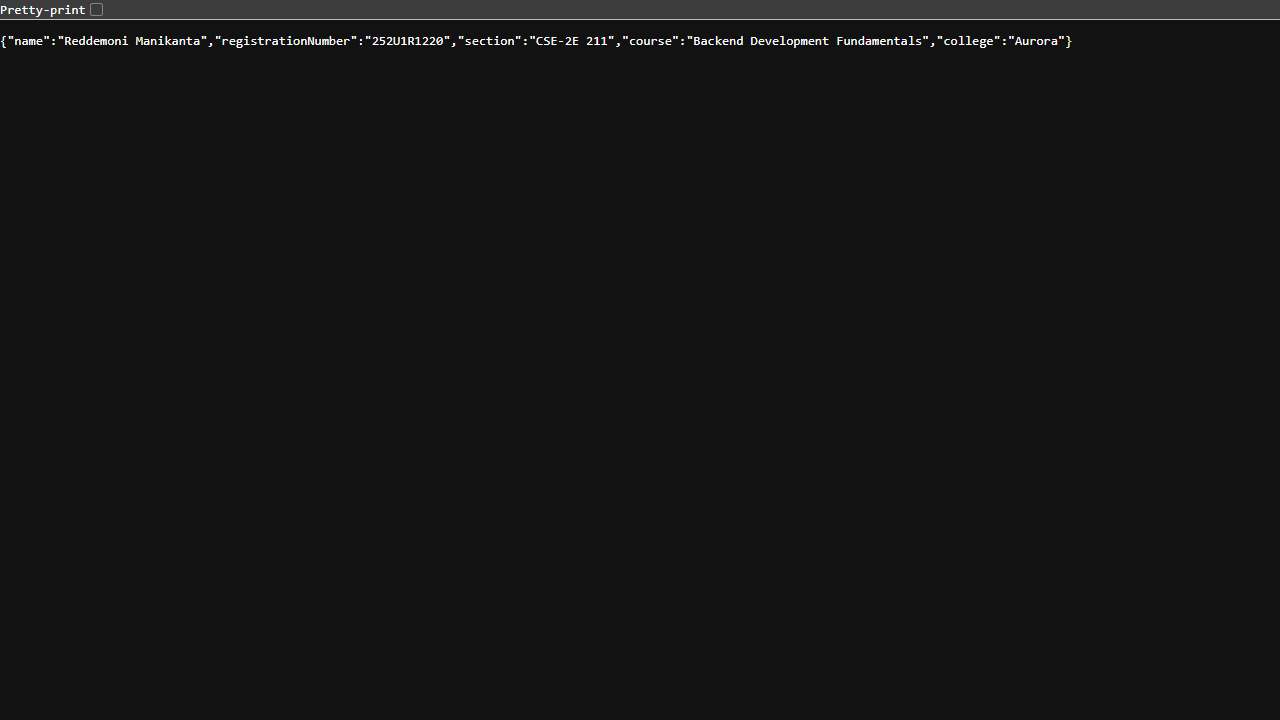
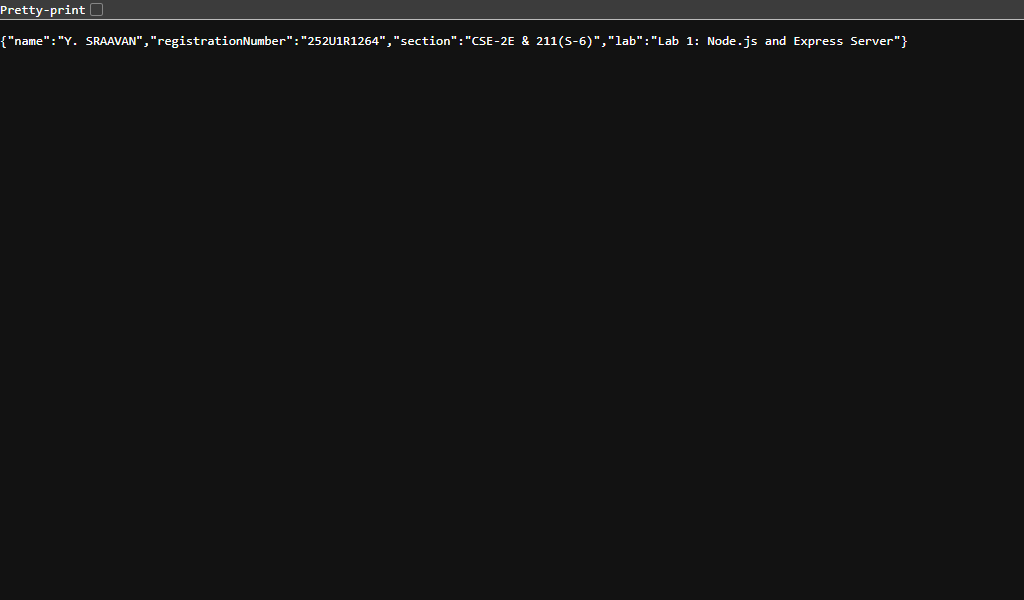
Customize project details for Yarraballi Sraavan (252U1R1264)

Changed region(s): [[0.0, 0.0, 1.0, 0.09]]

diff --git a/lab-01/server.js b/lab-01/server.js
@@ -7,15 +7,15 @@ const PORT = process.env.PORT || 3000;
 app.get("/", (req, res) => {
   res.status(200).json({
     message: "Welcome to the Backend Development Fundamentals Lab 1!",
-    student: "Reddemoni Manikanta",
+    student: "Yarraballi Sraavan",
     lab: "Lab 1 - Node.js and Express Server",
   });
 });
 
 app.get("/about", (req, res) => {
   res.status(200).json({
-    name: "Reddemoni Manikanta",
-    registrationNumber: "252U1R1220",
+    name: "Yarraballi Sraavan",
+    registrationNumber: "252U1R1264",
     section: "CSE-2E 211",
     course: "Backend Development Fundamentals",
     college: "Aurora Deemed-to-be-University",

diff --git a/lab-03/server.js b/lab-03/server.js
@@ -84,8 +84,8 @@ initializeDBAndServer();
 app.get("/", (req, res) => {
   res.status(200).json({
     message: "Welcome to Backend Development Fundamentals - Lab 3 (REST API, Query Parameters, Validation & Debugging)",
-    student: "Reddemoni Manikanta",
-    registrationNumber: "252U1R1220",
+    student: "Yarraballi Sraavan",
+    registrationNumber: "252U1R1264",
     section: "CSE-2E 211",
     college: "Aurora Deemed-to-be-University",
     faculty: "Mr Yugandhar Gurjalwar",

diff --git a/lab-02/server.js b/lab-02/server.js
@@ -61,8 +61,8 @@ initializeDBAndServer();
 app.get("/", (req, res) => {
   res.status(200).json({
     message: "Welcome to Backend Development Fundamentals - Lab 2 (SQLite Database and CRUD Routes)",
-    student: "Reddemoni Manikanta",
-    registrationNumber: "252U1R1220",
+    student: "Yarraballi Sraavan",
+    registrationNumber: "252U1R1264",
     section: "CSE-2E 211",
     college: "Aurora Deemed-to-be-University",
     endpoints: {

diff --git a/lab-03/debug-exercise/DEBUGGING.md b/lab-03/debug-exercise/DEBUGGING.md
@@ -1,7 +1,7 @@
 # Lab 3: Debugging Exercise & Troubleshooting Guide
 
-**Student Name:** Reddemoni Manikanta  
-**Registration Number:** 252U1R1220  
+**Student Name:** Yarraballi Sraavan  
+**Registration Number:** 252U1R1264  
 **Section:** CSE-2E 211  
 **Subject:** Backend Development Fundamentals  
 **College:** Aurora Deemed-to-be University  
@@ -26,9 +26,9 @@ Error: listen EADDRINUSE: address already in use :::3000
     at Server.setupListenHandle [as _listen2] (node:net:1940:16)
     at listenInCluster (node:net:1997:12)
     at Server.listen (node:net:2102:7)
-    at Function.listen (C:\Users\shekar\OneDrive\Desktop\R.Manikanta\lab-03\node_modules\express\lib\application.js:605:24)
+    at Function.listen (C:\Users\sraav\OneDrive\Desktop\LABS TERM 2 BACK END\lab-03\node_modules\express\lib\application.js:605:24)
     at Server.<anonymous> ([eval]:1:104)
-    at Server.f (C:\Users\shekar\OneDrive\Desktop\R.Manikanta\lab-03\node_modules\once\once.js:25:25)
+    at Server.f (C:\Users\sraav\OneDrive\Desktop\LABS TERM 2 BACK END\lab-03\node_modules\once\once.js:25:25)
     at Object.onceWrapper (node:events:633:28)
     at Server.emit (node:events:531:35)
     at emitListeningNT (node:net:1983:10)
@@ -92,7 +92,7 @@ node:internal/modules/cjs/loader:1386
 
 Error: Cannot find module './wrong-sqlite-path'
 Require stack:
-- C:\Users\shekar\OneDrive\Desktop\R.Manikanta\lab-03\[eval]
+- C:\Users\sraav\OneDrive\Desktop\LABS TERM 2 BACK END\lab-03\[eval]
     at Function._resolveFilename (node:internal/modules/cjs/loader:1383:15)
     at defaultResolveImpl (node:internal/modules/cjs/loader:1025:19)
     at resolveForCJSWithHooks (node:internal/modules/cjs/loader:1030:22)
@@ -105,7 +105,7 @@ Require stack:
     at runScriptInThisContext (node:internal/vm:209:10) {
   code: 'MODULE_NOT_FOUND',
   requireStack: [
-    'C:\\Users\\shekar\\OneDrive\\Desktop\\R.Manikanta\\lab-03\\[eval]'
+    'C:\\Users\\sraav\\OneDrive\\Desktop\\LABS TERM 2 BACK END\\lab-03\\[eval]'
   ]
 }
 ```
@@ -136,7 +136,7 @@ Node.js resolves module specifiers by looking into `node_modules` for bare packa
 ```text
 SQLITE ERROR CAUGHT: SQLITE_ERROR: no such table: books
 Error: SQLITE_ERROR: no such table: books
-    at Statement.all (C:\Users\shekar\OneDrive\Desktop\R.Manikanta\lab-03\node_modules\sqlite3\lib\sqlite3.js:15:21)
+    at Statement.all (C:\Users\sraav\OneDrive\Desktop\LABS TERM 2 BACK END\lab-03\node_modules\sqlite3\lib\sqlite3.js:15:21)
     ...
 ```
 

diff --git a/lab-01/README.md b/lab-01/README.md
@@ -8,8 +8,8 @@
 
 | Field | Details |
 |-------|---------|
-| **Name** | Reddemoni Manikanta |
-| **Registration Number** | 252U1R1220 |
+| **Name** | Yarraballi Sraavan |
+| **Registration Number** | 252U1R1264 |
 | **Section** | CSE-2E 211 |
 | **Course** | Backend Development Fundamentals |
 | **Faculty** | Mr Yugandhar Gurjalwar |
@@ -66,8 +66,8 @@ The `package.json` file is the heart of any Node.js project. Here is an explanat
 
 1. **Clone the repository:**
    ```bash
-   git clone https://github.com/manikantareddemoni-glitch/R.Manikanta.git
-   cd R.Manikanta/lab-01
+   git clone https://github.com/sraavan09-cmd/Y.Sraavan.git
+   cd lab-01
    ```
 
 2. **Install dependencies:**
@@ -139,7 +139,7 @@ npm start
 ```json
 {
   "message": "Welcome to the Backend Development Fundamentals Lab 1!",
-  "student": "Reddemoni Manikanta",
+  "student": "Yarraballi Sraavan",
   "lab": "Lab 1 - Node.js and Express Server"
 }
 ```
@@ -147,8 +147,8 @@ npm start
 **GET /about**
 ```json
 {
-  "name": "Reddemoni Manikanta",
-  "registrationNumber": "252U1R1220",
+  "name": "Yarraballi Sraavan",
+  "registrationNumber": "252U1R1264",
   "section": "CSE-2E 211",
   "course": "Backend Development Fundamentals",
   "college": "Aurora Deemed-to-be-University"
@@ -201,12 +201,12 @@ npm start
 
 2. **Create a New Web Service:**
    - Click **"New +"** → **"Web Service"**
-   - Connect your GitHub repository: `R.Manikanta`
+   - Connect your GitHub repository: `Y.Sraavan`
 
 3. **Configure the Service:**
    | Setting | Value |
    |---------|-------|
-   | **Name** | `manikanta-lab01` |
+   | **Name** | `sraavan-lab01` |
    | **Root Directory** | `lab-01` |
    | **Runtime** | Node |
    | **Build Command** | `npm install` |
@@ -251,5 +251,5 @@ This lab provided hands-on experience with backend development fundamentals and 
 
 ## 👤 Author
 
-**Reddemoni Manikanta** – 252U1R1220 – CSE-2E 211
+**Yarraballi Sraavan** – 252U1R1264 – CSE-2E 211
 

diff --git a/lab-03/README.md b/lab-03/README.md
@@ -8,8 +8,8 @@
 
 | Field | Details |
 |-------|---------|
-| **Name** | Reddemoni Manikanta |
-| **Registration Number** | 252U1R1220 |
+| **Name** | Yarraballi Sraavan |
+| **Registration Number** | 252U1R1264 |
 | **Section** | CSE-2E 211 |
 | **Course** | Backend Development Fundamentals |
 | **Faculty** | Mr Yugandhar Gurjalwar |
@@ -97,7 +97,7 @@ The asynchronous initialization routine `initializeDBAndServer()` executes at st
 
 1. **Navigate to the lab-03 directory:**
    ```bash
-   cd R.Manikanta/lab-03
+   cd lab-03
    ```
 
 2. **Install dependencies:**
@@ -421,13 +421,13 @@ SELECT id, title FROM book WHERE id = 15;
 
 2. **Create a New Web Service:**
    - Click **"New +"** → **"Web Service"**
-   - Connect your GitHub repository: `R.Manikanta`
+   - Connect your GitHub repository: `Y.Sraavan`
 
 3. **Configure the Service:**
 
    | Setting | Value |
    |---------|-------|
-   | **Name** | `R-Manikanta-lab03` |
+   | **Name** | `sraavan-lab03` |
    | **Root Directory** | `lab-03` |
    | **Runtime** | `Node` |
    | **Build Command** | `npm install` |
@@ -487,4 +487,4 @@ In this lab, I learned:
 
 ## 👤 Author
 
-**Reddemoni Manikanta** – 252U1R1220 – CSE-2E 211
+**Yarraballi Sraavan** – 252U1R1264 – CSE-2E 211

diff --git a/lab-02/README.md b/lab-02/README.md
@@ -8,8 +8,8 @@
 
 | Field | Details |
 |-------|---------|
-| **Name** | Reddemoni Manikanta |
-| **Registration Number** | 252U1R1220 |
+| **Name** | Yarraballi Sraavan |
+| **Registration Number** | 252U1R1264 |
 | **Section** | CSE-2E 211 |
 | **Course** | Backend Development Fundamentals |
 | **Faculty** | Mr Yugandhar Gurjalwar |
@@ -90,7 +90,7 @@ The function `initializeDBAndServer()` handles:
 
 1. **Navigate to lab-02:**
    ```bash
-   cd R.Manikanta/lab-02
+   cd lab-02
    ```
 
 2. **Install dependencies:**
@@ -304,12 +304,12 @@ SELECT * FROM book WHERE id = 11;
 
 2. **Create a New Web Service:**
    - Click **"New +"** → **"Web Service"**
-   - Connect your GitHub repository: `R.Manikanta`
+   - Connect your GitHub repository: `Y.Sraavan`
 
 3. **Configure the Service:**
    | Setting | Value |
    |---------|-------|
-   | **Name** | `R-Manikanta-lab02` |
+   | **Name** | `sraavan-lab02` |
    | **Root Directory** | `lab-02` |
    | **Runtime** | Node |
    | **Build Command** | `npm install` |
@@ -364,5 +364,5 @@ In this lab, I learned:
 
 ## 👤 Author
 
-**Reddemoni Manikanta** – 252U1R1220 – CSE-2E 211
+**Yarraballi Sraavan** – 252U1R1264 – CSE-2E 211
 

diff --git a/README.md b/README.md
@@ -1,7 +1,7 @@
 # Backend Development Fundamentals – Lab Repository
 
-**Student Name:** Reddemoni Manikanta  
-**Registration Number:** 252U1R1220  
+**Student Name:** Yarraballi Sraavan  
+**Registration Number:** 252U1R1264  
 **Section:** CSE-2E 211  
 **Course:** Backend Development Fundamentals – Year II Term II  
 **Faculty:** Mr Yugandhar Gurjalwar  
@@ -54,7 +54,7 @@ This repository contains all lab assignments for the **Backend Development Funda
 
 ## 👤 Author
 
-**Reddemoni Manikanta**  
+**Yarraballi Sraavan**  
 B.Tech CSE – Aurora Deemed-to-be-University  
-Registration Number: 252U1R1220
+Registration Number: 252U1R1264
 
